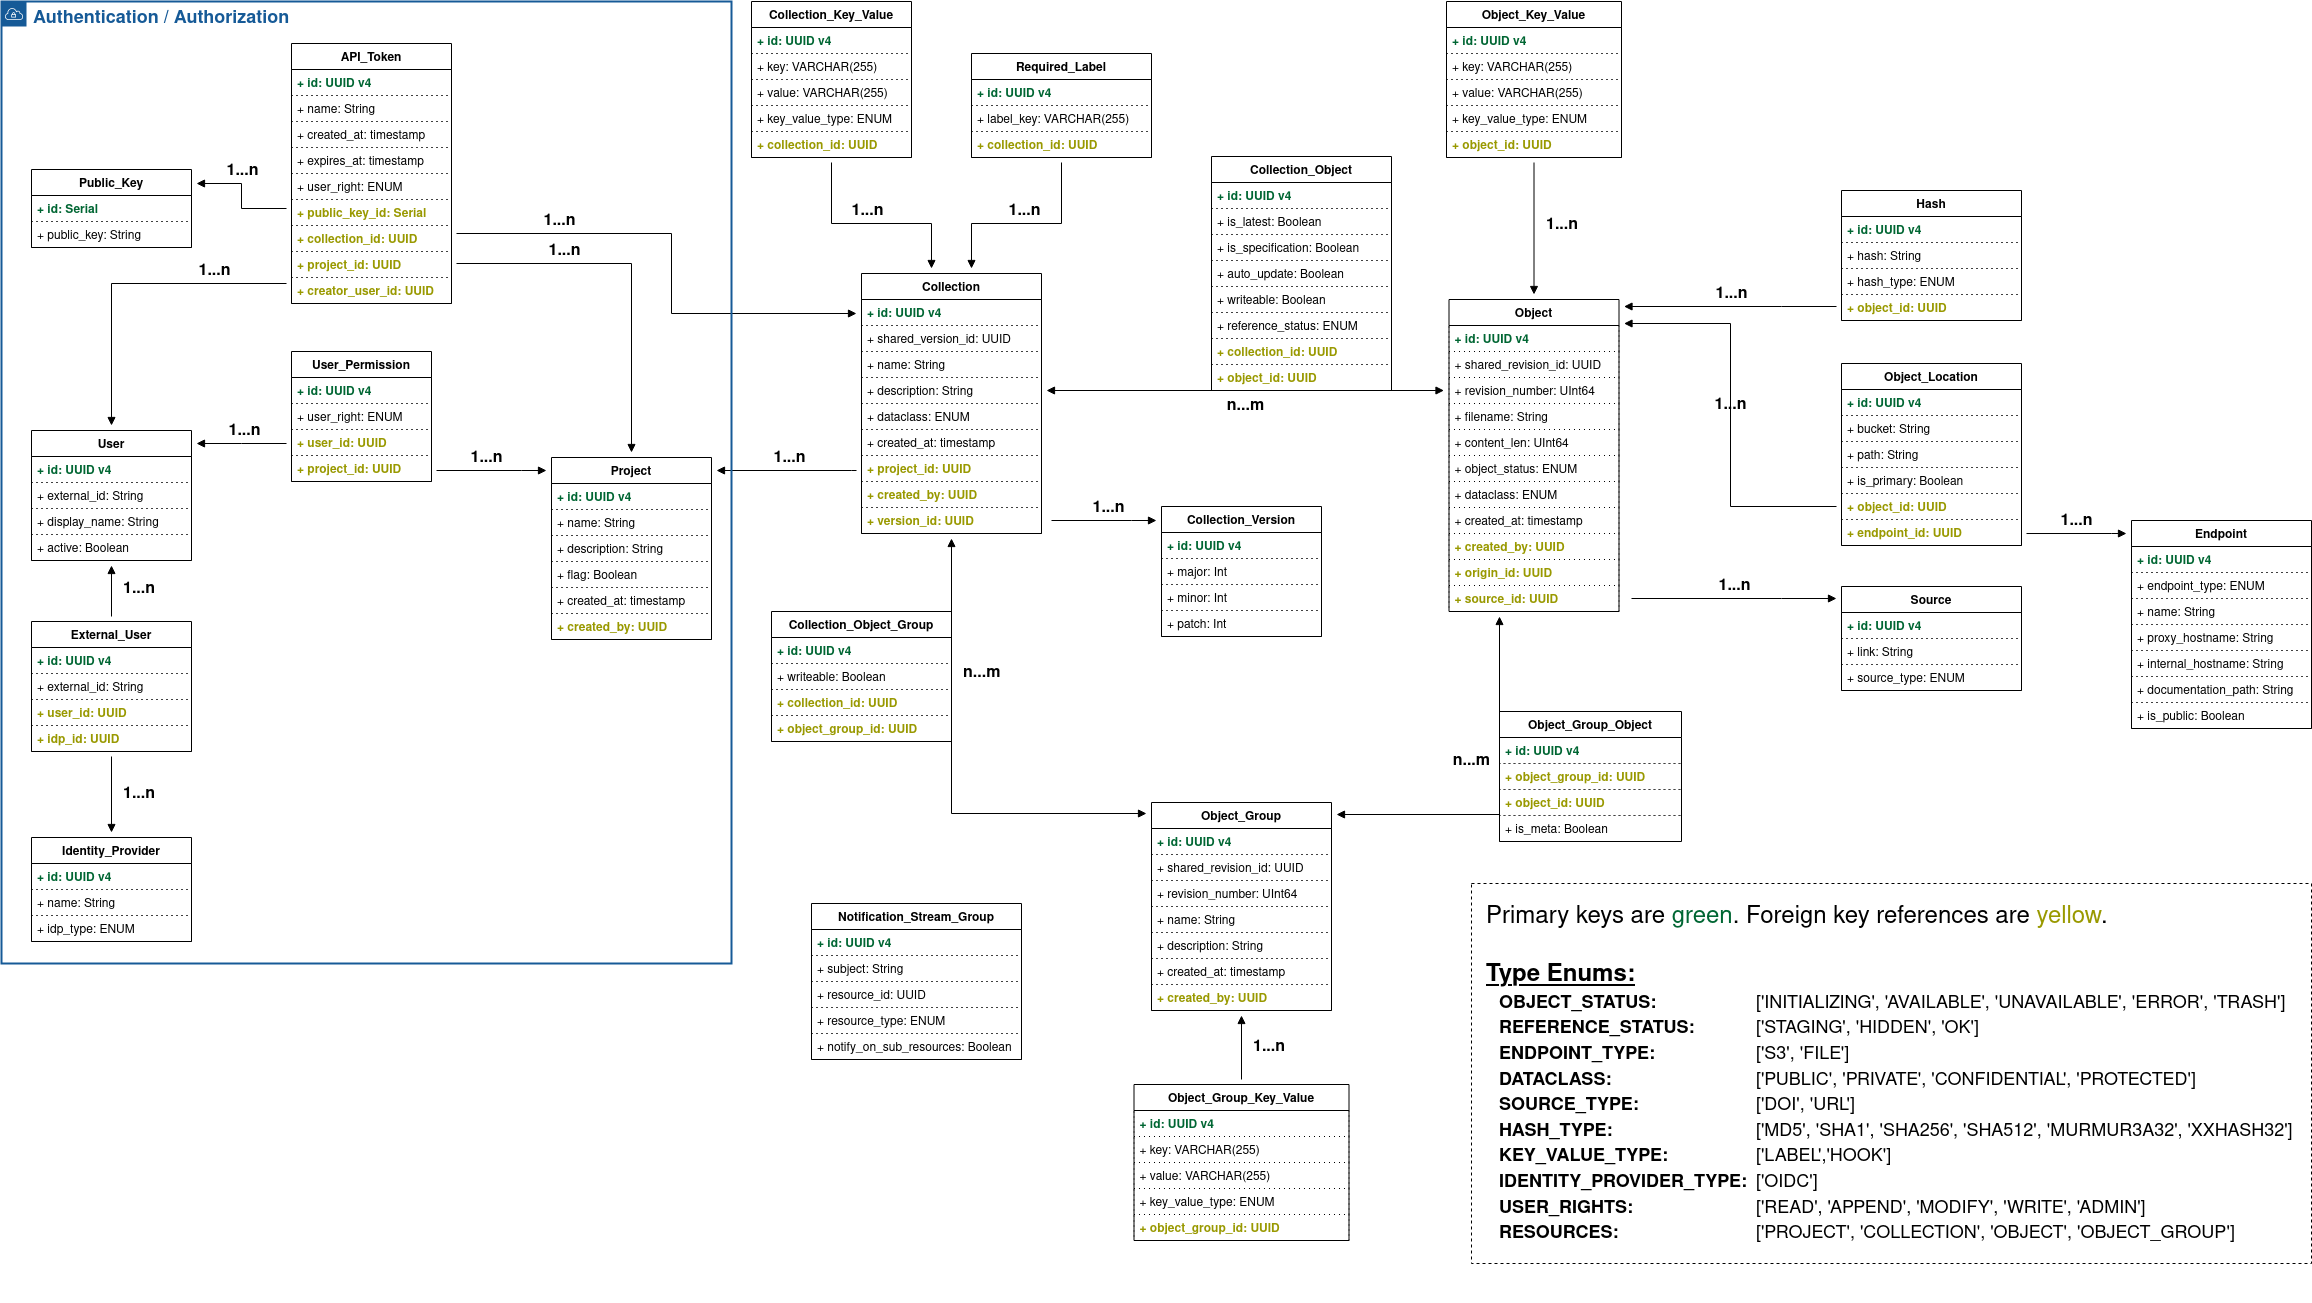
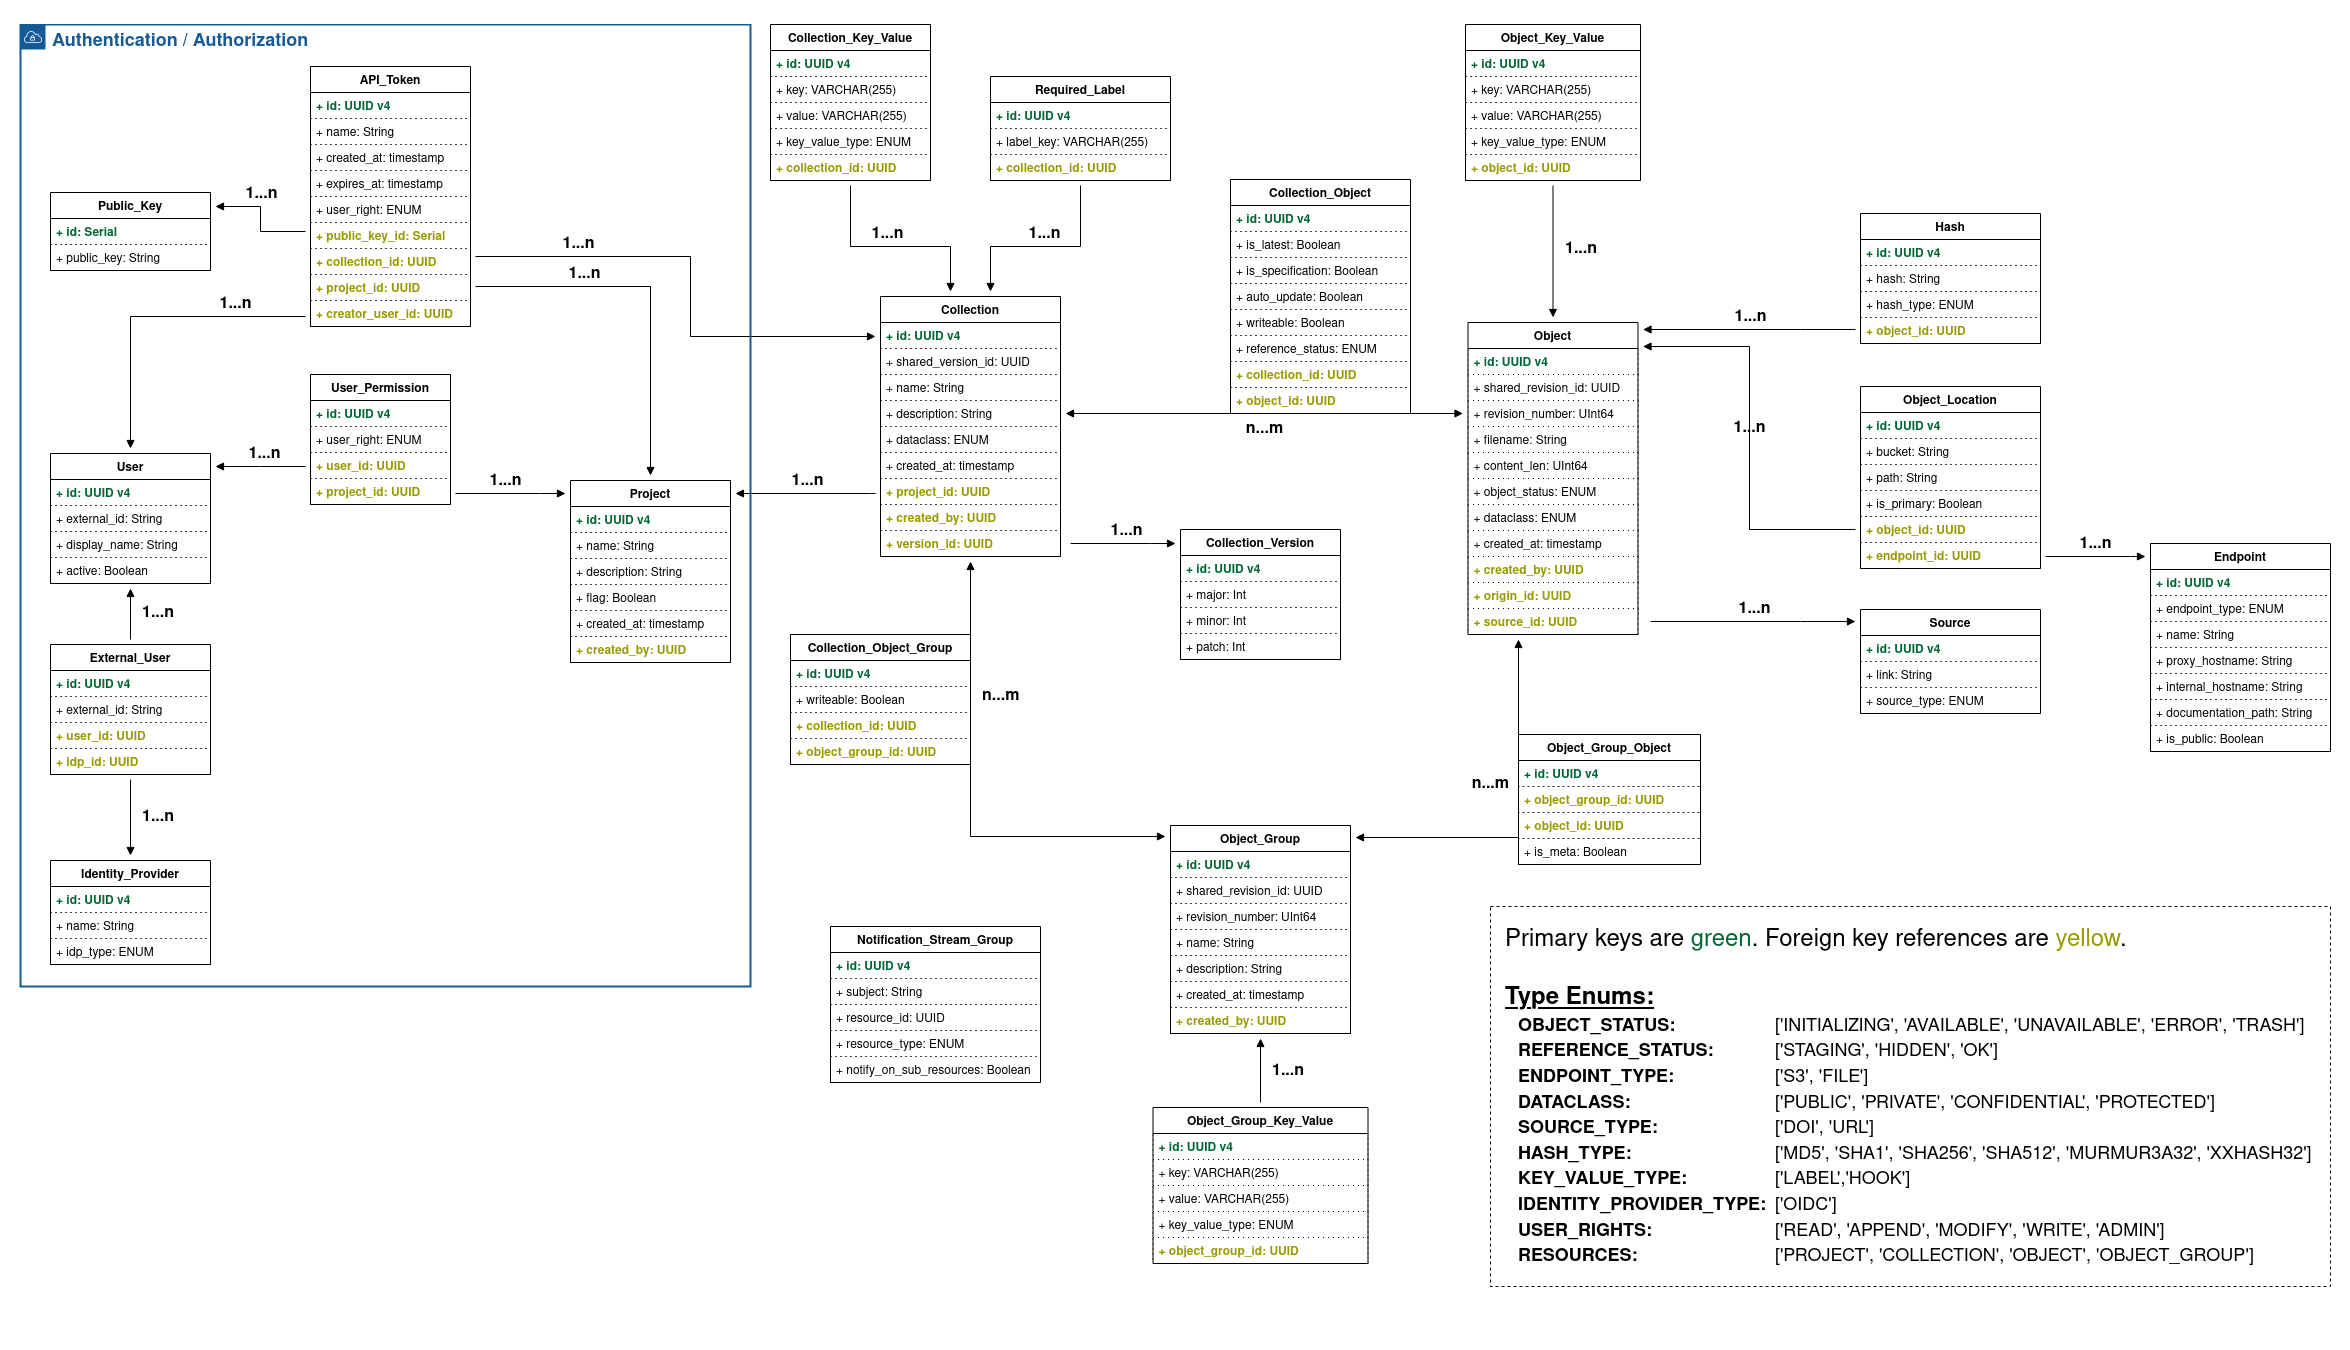
Update images for GitHub dark mode support

diff --git a/README.md b/README.md
@@ -21,7 +21,14 @@ Details on the individual structures can be found in the API documentation and/o
 
 ### Internal data structure layout overview
 
+<!--
 ![AOS data structure diagram containing Project, Collection, Object and ObjectGroup](get_started/internal_data_structure/internal_data_structure.png)
+-->
+
+<picture>
+  <source media="(prefers-color-scheme: dark)" srcset="./get_started/internal_data_structure/internal_data_structure.dark.png">
+  <img alt="Diagram of the Aruna Object Storage " src="./get_started/internal_data_structure/internal_data_structure.png">
+</picture>
 
 A more detailed description of the individual parts can be found [here](get_started/internal_data_structure/internal_data_structure.md).
 
